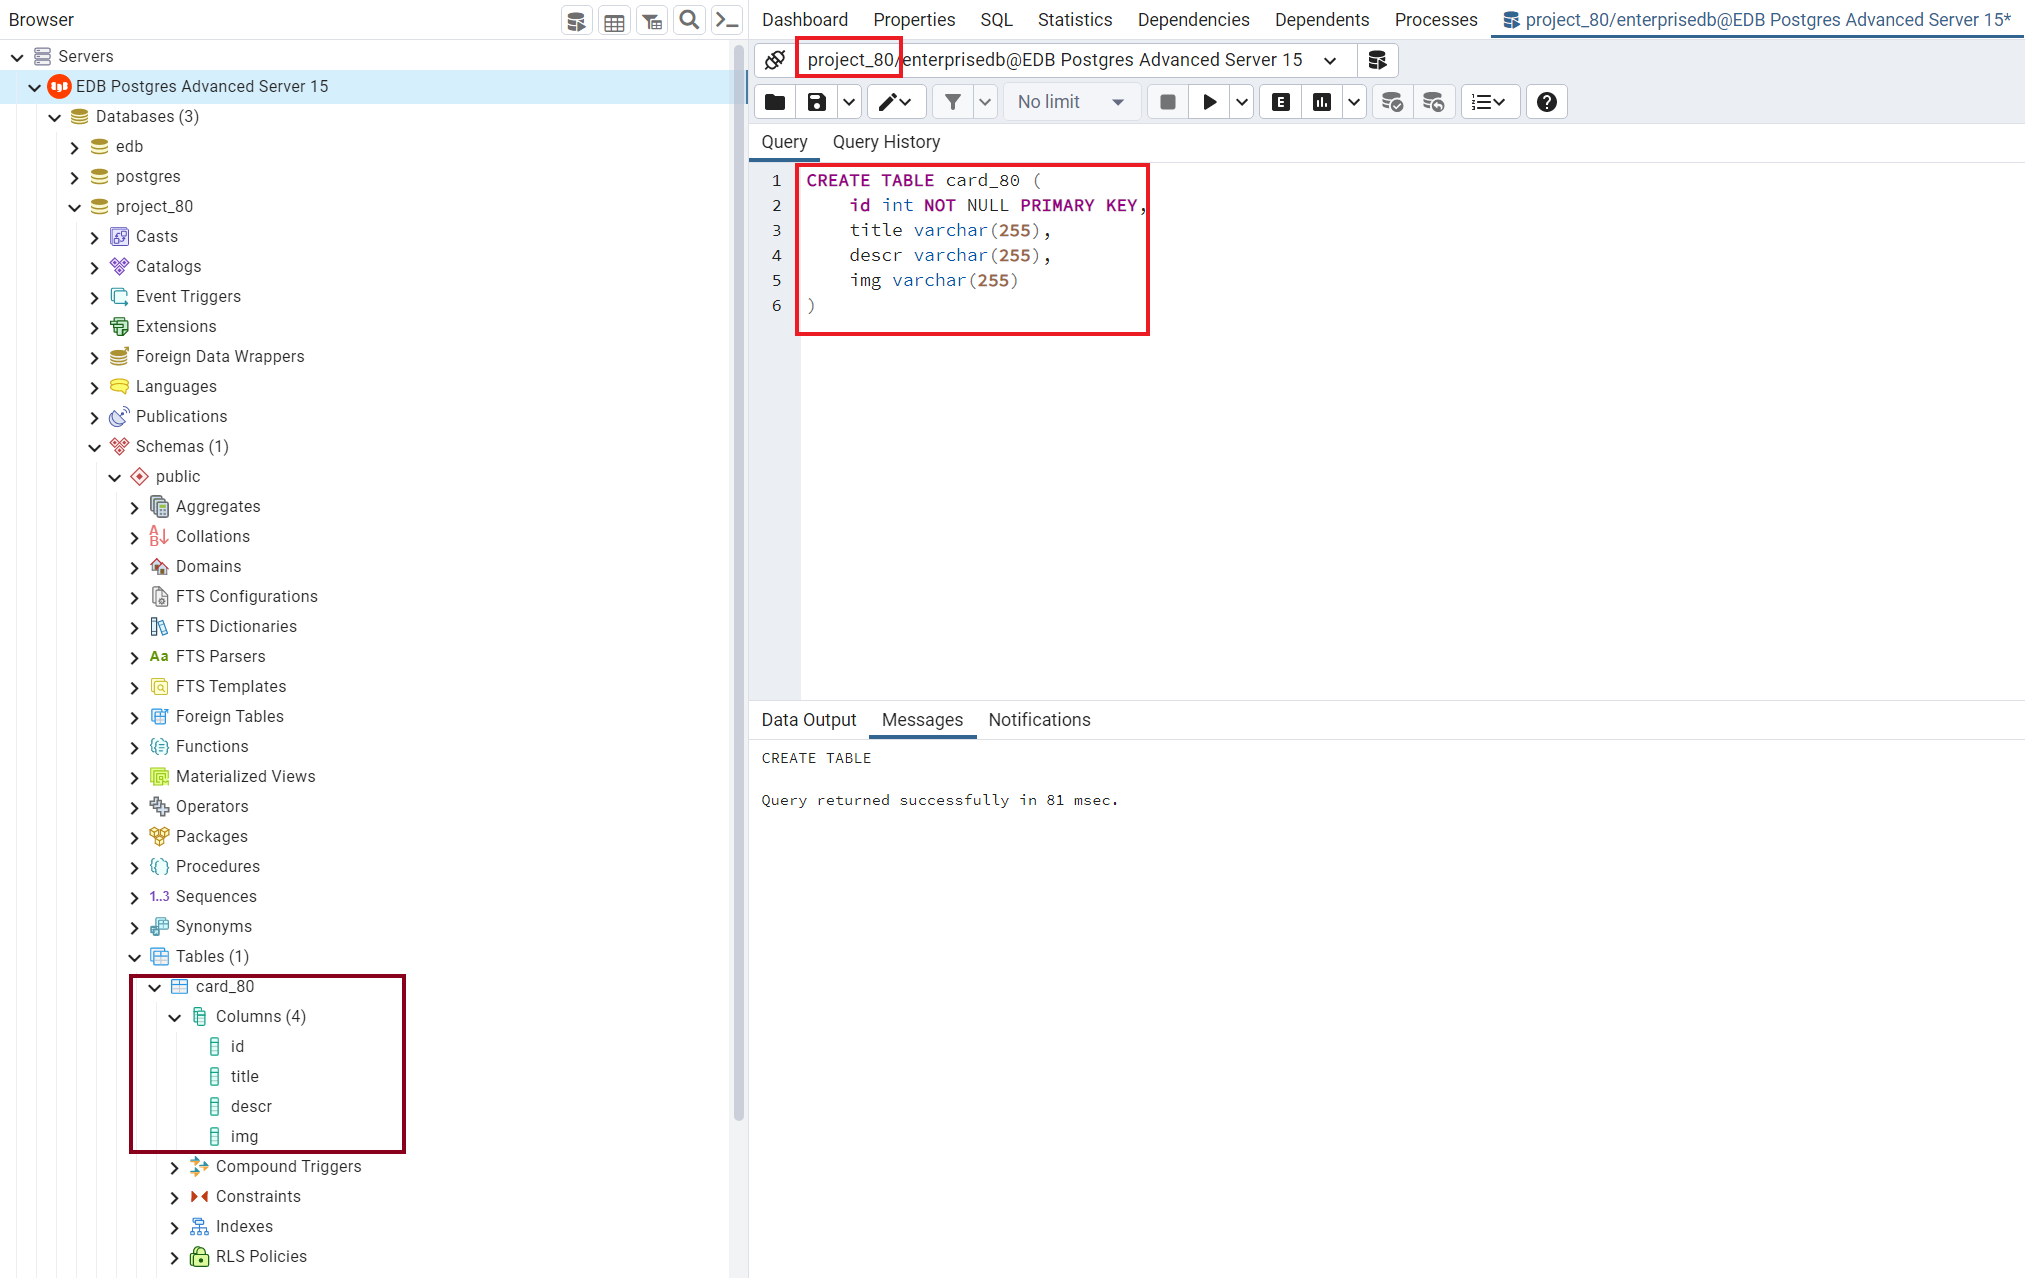
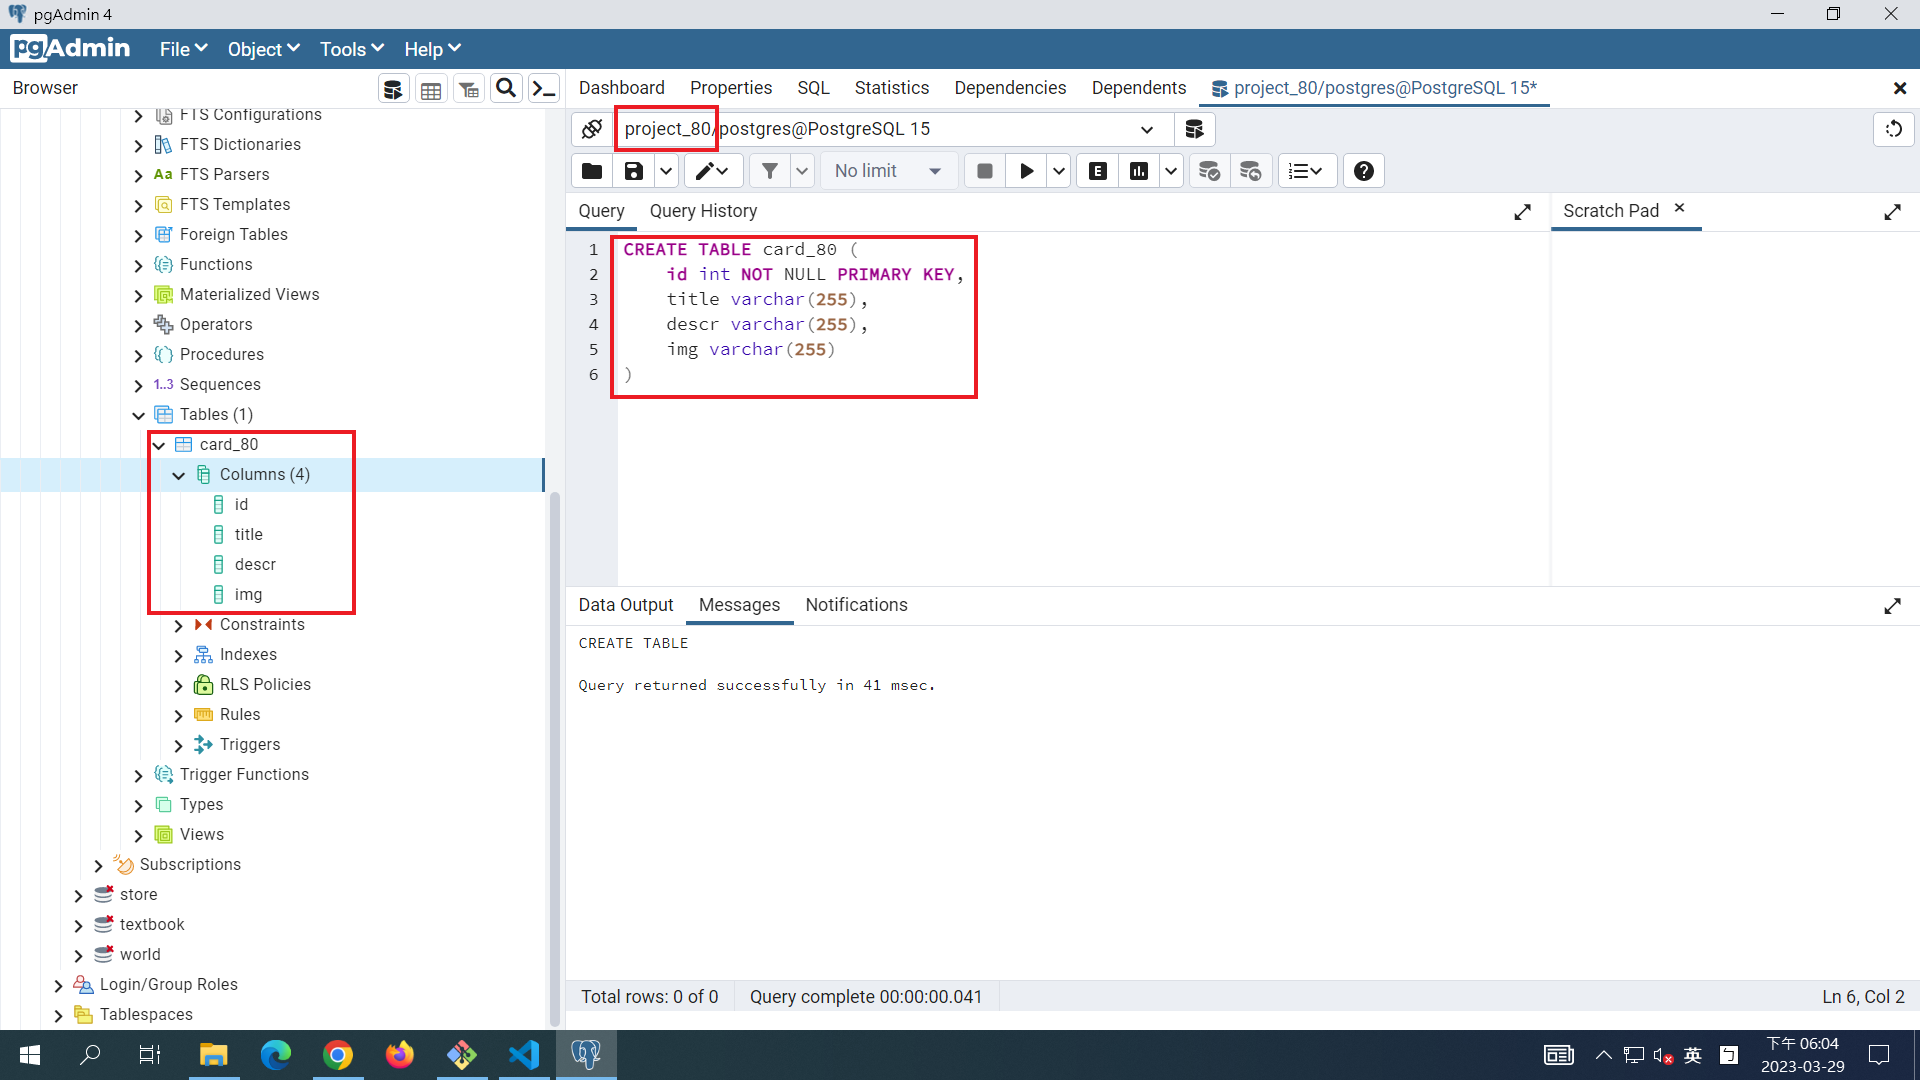
S3. 測試可以取得資料庫中的資料

Changed region(s): [[0.0, 0.0, 1.0, 1.0], [0.8125, 0.1833, 0.875, 0.2139], [0.5625, 0.2139, 0.5938, 0.2444]]

diff --git a/utils/database.js b/utils/database.js
@@ -3,7 +3,7 @@ const { Pool } = require('pg');
 const pool = new Pool({
     user: 'postgres',
     host: 'localhost',
-    port: '5432',
+    port: '5433',
     database: 'project_80',
     password: '0000'
 })

diff --git a/md/Server.md b/md/Server.md
@@ -3,11 +3,17 @@
 [My Theme URL](https://codepen.io/utilitybend/pen/bGvjLba)
 ![](Server_S1.png)
 
-### S2. 提供相關的SQL指令，顯示如何將theme內data放入資料庫中
+### S2. 提供相關的 SQL 指令，顯示如何將 theme 內 data 放入資料庫中
 
 ### 1.database connection to project_80
+
 ![](Server_S2-1.png)
 
 ### 2.create table card_80 with 3 data
+
 ![](Server_S2-2.png)
-![](Server_S2-3.png
+![](Server_S2-3.png)
+
+### S3. 測試可以取得資料庫中的資料"
+
+![](Server_S3.png)
